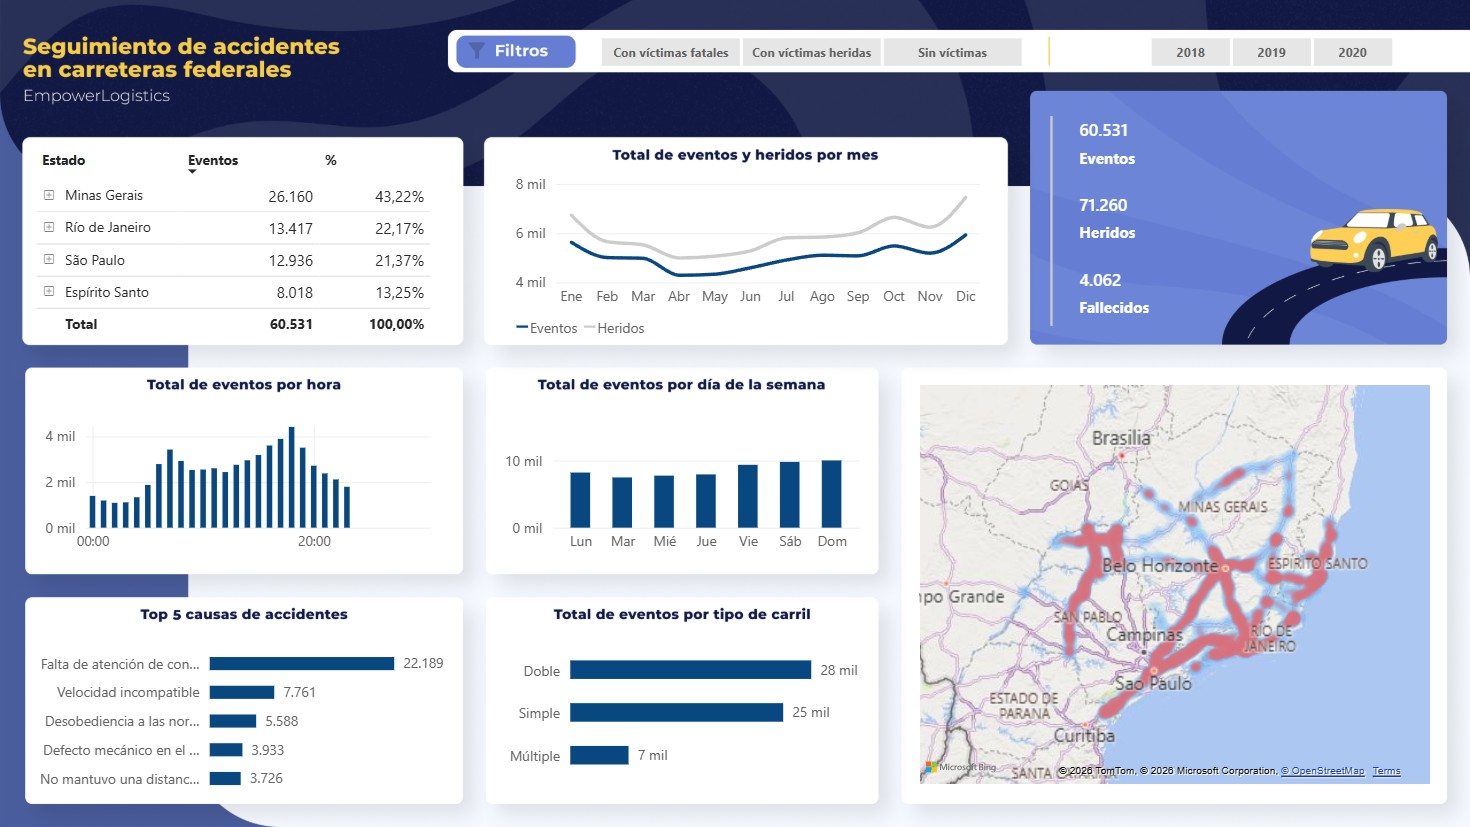
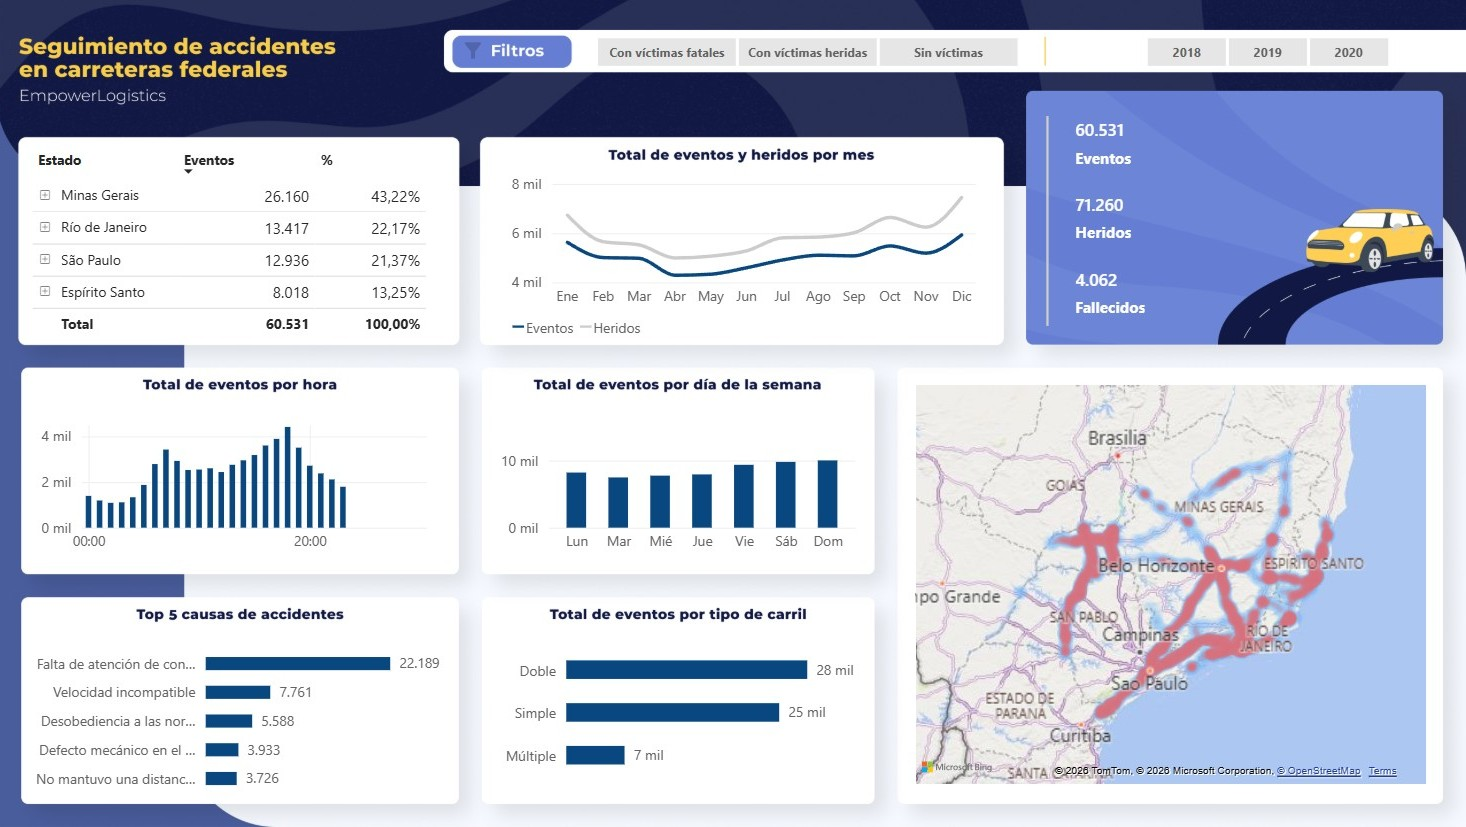
limpieza de codigo en proyectos

diff --git a/index.html b/index.html
@@ -120,12 +120,11 @@
         <button class="filter-btn" data-filter="sql" aria-pressed="false">SQL</button>
         <button class="filter-btn" data-filter="etl" aria-pressed="false">ETL</button>
         <button class="filter-btn" data-filter="python" aria-pressed="false">Python</button>
-        <button class="filter-btn" data-filter="modelado-datos" aria-pressed="false">Modelado de datos</button>
       </div>
 
       <div class="project-grid" id="project-grid">
 
-        <article class="project-card project-card--video" data-category="power-bi python etl modelado-datos">
+        <article class="project-card project-card--video" data-category="power-bi python etl">
           <div class="project-image">
             <img src="img/accidentes-carreteras-card-img.jpg" alt="Dashboard en Power BI de accidentes en carreteras federales de Brasil" loading="lazy" decoding="async">
             <video class="project-video" src="img/accidentes-carreteras-card-video.mp4" muted loop playsinline preload="none" aria-hidden="true" tabindex="-1"></video>
@@ -135,7 +134,6 @@
               <span class="project-tag">Power BI</span>
               <span class="project-tag">Python</span>
               <span class="project-tag">ETL</span>
-              <span class="project-tag">Modelado de datos</span>
             </div>
             <h3>Accidentes en Carreteras</h3>
             <p>Solución end-to-end: ETL Medallion en Python, modelo estrella y dashboard en Power BI.</p>
@@ -147,71 +145,6 @@
                 <i data-lucide="github" aria-hidden="true"></i> Ver repositorio
               </a>
             </div>
-          </div>
-        </article>
-
-        <article class="project-card" data-category="power-bi">
-          <div class="project-image">
-            <img src="img/proyecto_01.png" alt="Captura de pantalla del dashboard de ventas en Power BI con modelo dimensional y medidas DAX" loading="lazy" decoding="async">
-          </div>
-          <div class="project-body">
-            <div class="project-tags">
-              <span class="project-tag">Power BI</span>
-            </div>
-            <h3>Dashboard de Ventas</h3>
-            <p>Dashboard interactivo para análisis de ventas, con modelo dimensional, medidas DAX y RLS.</p>
-            <a href="https://github.com/ambarsquintana/dashboad-ventas" target="_blank" rel="noopener" class="btn btn-dark btn-block">
-              <i data-lucide="github" aria-hidden="true"></i> Ver proyecto
-            </a>
-          </div>
-        </article>
-
-        <article class="project-card" data-category="etl sql">
-          <div class="project-image">
-            <img src="img/proyecto_02.png" alt="Captura de pantalla del proceso ETL multifuente desarrollado con SSIS" loading="lazy" decoding="async">
-          </div>
-          <div class="project-body">
-            <div class="project-tags">
-              <span class="project-tag">ETL</span>
-              <span class="project-tag">SQL</span>
-            </div>
-            <h3>Proceso ETL Multifuente</h3>
-            <p>Integración y transformación de datos desde múltiples fuentes, con SSIS y arquitectura multicapa.</p>
-            <a href="https://github.com/ambarsquintana/etl-ssis-multifuente" target="_blank" rel="noopener" class="btn btn-dark btn-block">
-              <i data-lucide="github" aria-hidden="true"></i> Ver proyecto
-            </a>
-          </div>
-        </article>
-
-        <article class="project-card" data-category="power-bi">
-          <div class="project-image">
-            <img src="img/proyecto_03.png" alt="Captura de pantalla del dashboard de análisis de talento humano en Power BI" loading="lazy" decoding="async">
-          </div>
-          <div class="project-body">
-            <div class="project-tags">
-              <span class="project-tag">Power BI</span>
-            </div>
-            <h3>Análisis de Talento Humano</h3>
-            <p>Dashboard para el área de RRHH con métricas de gestión de personal y análisis de rotación.</p>
-            <a href="https://github.com/ambarsquintana/dashboard-talento-humano" target="_blank" rel="noopener" class="btn btn-dark btn-block">
-              <i data-lucide="github" aria-hidden="true"></i> Ver proyecto
-            </a>
-          </div>
-        </article>
-
-        <article class="project-card" data-category="modelado-datos">
-          <div class="project-image">
-            <img src="img/proyecto_04.png" alt="Diagrama del modelo dimensional en estrella (Kimball) para almacenamiento de datos" loading="lazy" decoding="async">
-          </div>
-          <div class="project-body">
-            <div class="project-tags">
-              <span class="project-tag">Modelado de datos</span>
-            </div>
-            <h3>Modelo Dimensional (Kimball)</h3>
-            <p>Diseño de modelo en estrella para almacenamiento de datos y generación de reportes optimizados.</p>
-            <a href="https://github.com/ambarsquintana/modelo-datos" target="_blank" rel="noopener" class="btn btn-dark btn-block">
-              <i data-lucide="github" aria-hidden="true"></i> Ver proyecto
-            </a>
           </div>
         </article>
 
@@ -247,7 +180,7 @@
           <img src="img/icons/data-integration.png" alt="Integración de datos" class="skill-icon" loading="lazy" decoding="async">
           <div class="skill-info">
             <h3>Integración de datos</h3>
-            <p>SQL Server · PostgreSQL · SharePoint · APIs REST</p>
+            <p>SQL Server · PostgreSQL · SharePoint · APIs</p>
           </div>
         </div>
 
@@ -260,10 +193,10 @@
         </div>
 
         <div class="skill-card">
-          <img src="img/icons/etl.png" alt="SSIS / ETL" class="skill-icon" loading="lazy" decoding="async">
+          <img src="img/icons/etl.png" alt="ETL" class="skill-icon" loading="lazy" decoding="async">
           <div class="skill-info">
-            <h3>SSIS / ETL</h3>
-            <p>Limpieza · Transformación · Integración · Arquitecturas multicapa</p>
+            <h3>ETL</h3>
+            <p>Limpieza · Transformación · Integración · Arquitectura · Medallion · SSIS</p>
           </div>
         </div>
 
@@ -279,7 +212,7 @@
           <img src="img/icons/python.png" alt="Python" class="skill-icon" loading="lazy" decoding="async">
           <div class="skill-info">
             <h3>Python</h3>
-            <p>Análisis · Pandas · NumPy · Automatización</p>
+            <p>Pandas · NumPy · Jupyter · Análisis · Automatización</p>
           </div>
         </div>
 
@@ -433,7 +366,7 @@
         <p class="eyebrow"><span class="eyebrow-dash">&mdash;&mdash;</span> Sobre mí</p>
         <p>Soy desarrolladora de Business Intelligence e ingeniera de datos para entornos corporativos de alta demanda.</p>
         <p>Durante 9 años he trabajado transformando datos en soluciones que facilitan el análisis y la toma de decisiones. Mi experiencia abarca el diseño de modelos dimensionales, procesos ETL y dashboards en Power BI, siempre con especial atención a la calidad, integridad y gobernanza de los datos.</p>
-        <p>Me motiva convertir datos complejos en información clara y accionable para quienes toman decisiones. Fuera del trabajo, disfruto cuidar de mis bonsáis, hacer senderismo y, cada vez que puedo, visitar el mar — mi lugar favorito en el mundo.</p>
+        <p>Me motiva convertir datos complejos en información clara y accionable para quienes toman decisiones. Fuera del trabajo, disfruto cuidar de mis bonsáis, salir de senderismo, capacitarme en nail art y, cada vez que puedo, visitar el mar — mi lugar favorito en el mundo.</p>
         <a href="https://www.linkedin.com/in/ambarsquintana" target="_blank" rel="noopener" class="btn btn-primary">¿Hablamos?</a>
       </div>
     </div>

diff --git a/css/styles.css b/css/styles.css
@@ -259,8 +259,11 @@ h1, h2, h3, h4, p, dl, dd { margin: 0; }
 .header-actions { display: flex; align-items: center; gap: 12px; }
 
 .theme-toggle {
-  width: 40px;
-  height: 40px;
+  width: 30px;
+  height: 30px;
+  padding: 0;
+  /* Compensa el padding-bottom + borde de los enlaces del menú para alinear con su texto */
+  margin-bottom: 5px;
   border-radius: 50%;
   border: 1px solid var(--color-border);
   background: var(--color-card);
@@ -270,7 +273,8 @@ h1, h2, h3, h4, p, dl, dd { margin: 0; }
   justify-content: center;
   cursor: pointer;
 }
-.theme-toggle i { width: 18px; height: 18px; }
+.theme-toggle i,
+.theme-toggle svg { width: 15px; height: 15px; display: block; }
 .theme-toggle .icon-sun { display: none; }
 :root[data-theme="dark"] .theme-toggle .icon-moon { display: none; }
 :root[data-theme="dark"] .theme-toggle .icon-sun { display: block; }
@@ -760,6 +764,7 @@ p.footer-tagline { font-size: 14px; line-height: 1.6; margin-top: 0; margin-bott
 }
 
 @media (max-width: 720px) {
+  .theme-toggle { margin-bottom: 0; }
   .main-nav { display: none; }
   .nav-toggle { display: flex; }
   body.nav-open .main-nav {
